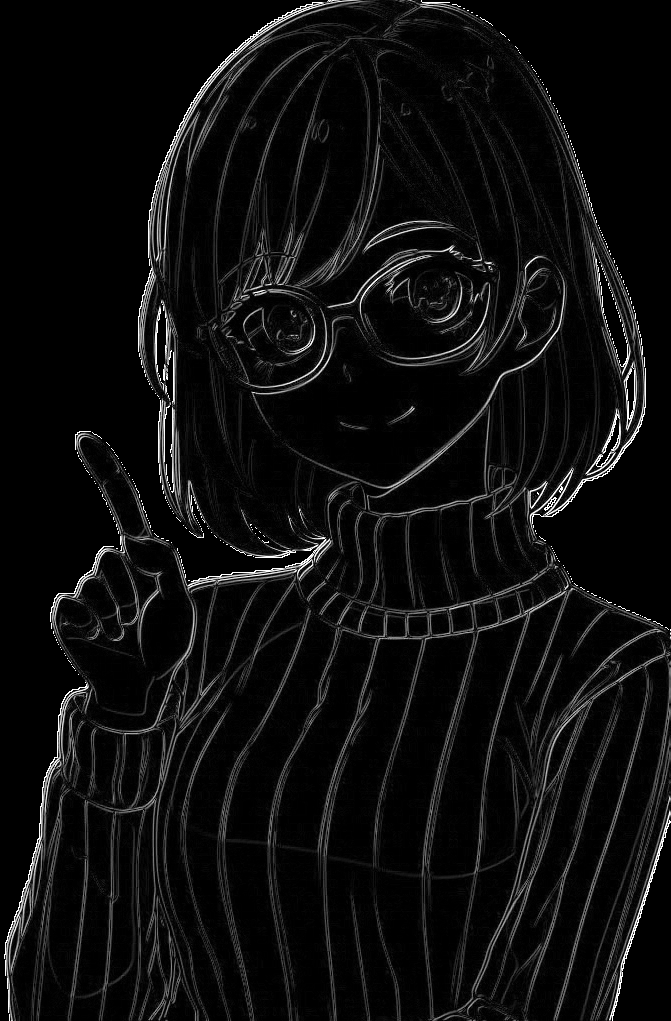
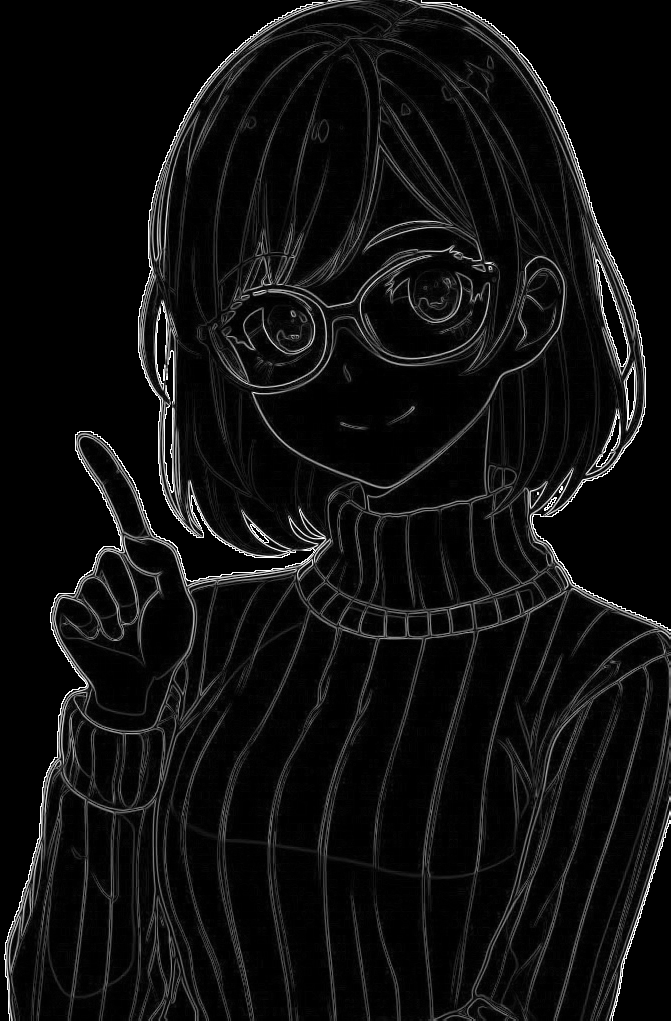
fix

diff --git a/python/opencv/filter2d/roberts/sample01.py b/python/opencv/filter2d/roberts/sample01.py
@@ -14,8 +14,8 @@ kernel_x = np.array([[0, 0, 0],
                    [0, 0, -1]])
 
 kernel_y = np.array([[0, 0, 0],
-                   [0, 1, 0],
-                   [0, 0, -1]])
+                   [0, 0, 1],
+                   [0, -1, 0]])
 # フィルタ処理
 gray_x = cv.filter2D(gray, cv.CV_64F, kernel_x)
 gray_y = cv.filter2D(gray, cv.CV_64F, kernel_y)

diff --git a/python/opencv/filter2d/roberts/sample02.py b/python/opencv/filter2d/roberts/sample02.py
@@ -33,8 +33,8 @@ kernel_x = np.array([[0, 0, 0],
                    [0, 0, -1]])
 
 kernel_y = np.array([[0, 0, 0],
-                   [0, 1, 0],
-                   [0, 0, -1]])
+                   [0, 0, 1],
+                   [0, -1, 0]])
 # フィルタ処理
 gray_x = filter2d(gray, kernel_x)
 gray_y = filter2d(gray, kernel_y)
